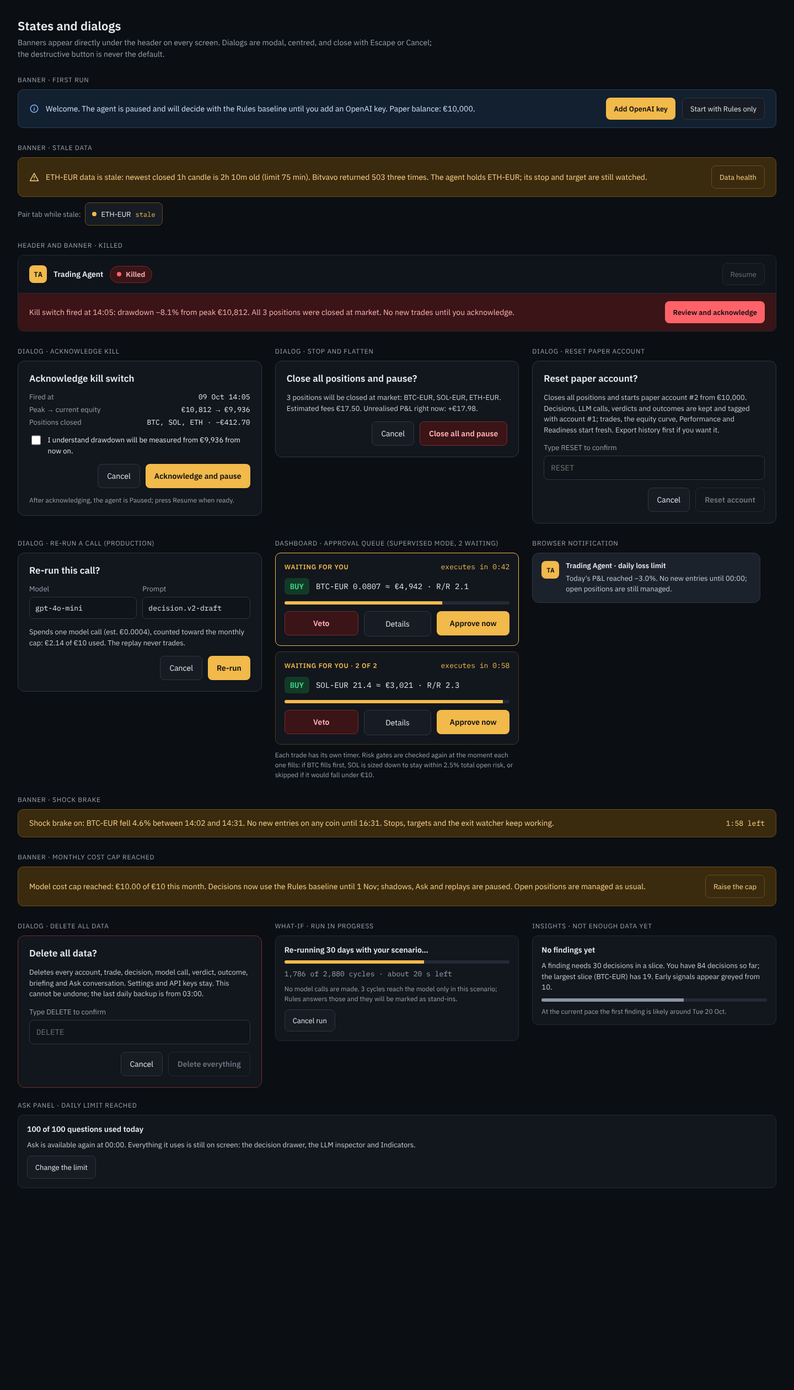
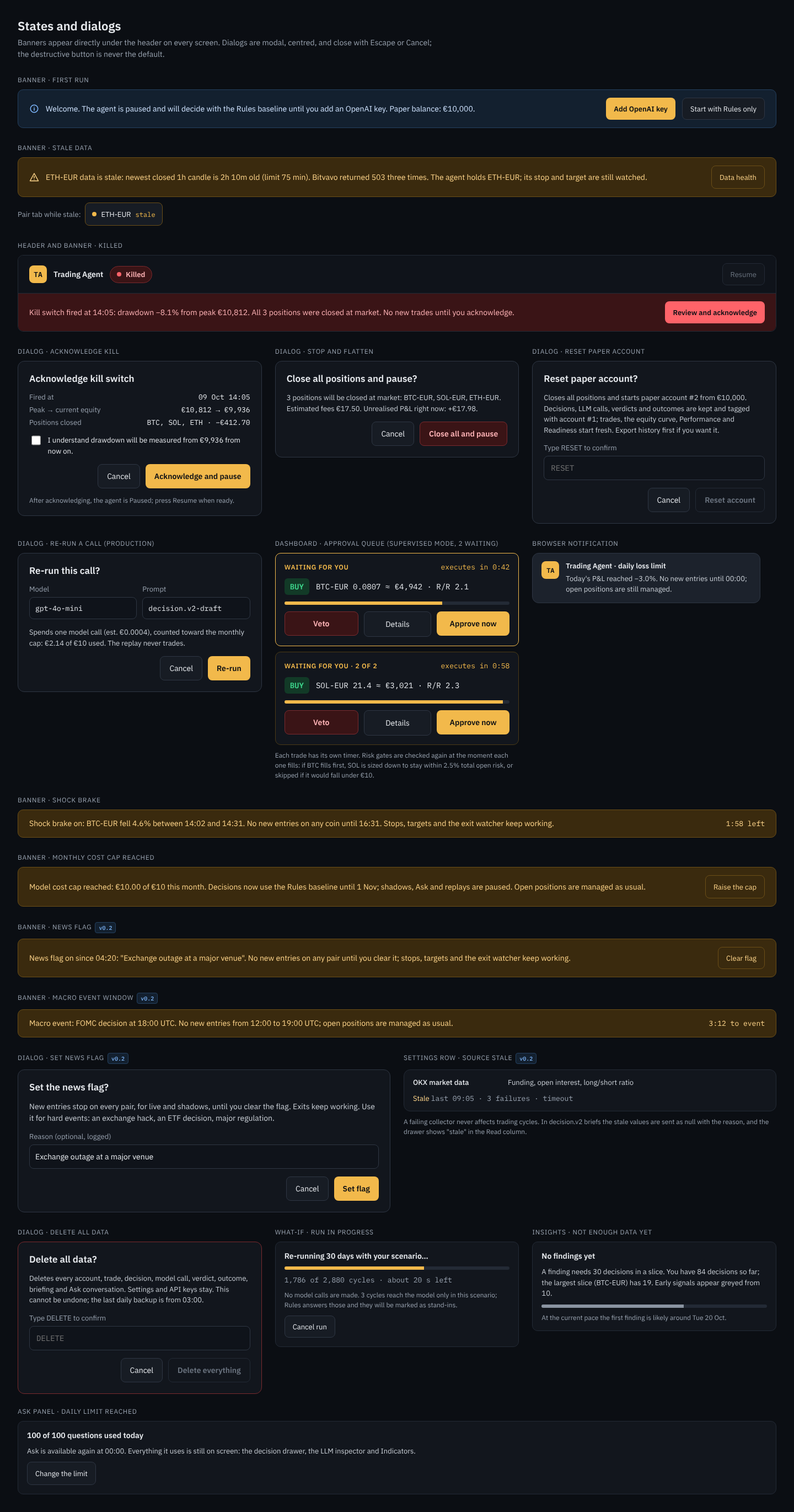
v0.2 spec

diff --git a/design/screens/Settings.dc.html b/design/screens/Settings.dc.html
@@ -125,6 +125,11 @@ button,input,select{font-family:inherit}
         <label style="display: flex; flex-direction: column; gap: 6px"><span style="font-size: 13px; color: #98A2AF">Throttle after losses in a row / drawdown (%)</span><span style="display: flex; gap: 8px"><input type="number" value="3" aria-label="Losses in a row" style="height: 44px; padding: 0 10px; box-sizing: border-box; border-radius: 8px; border: 1px solid #2E3643; background: #0F131A; color: #E7EAEE; font-family: 'IBM Plex Mono', monospace; font-size: 14px; width: 50%"><input type="number" value="4" aria-label="Drawdown percent" style="height: 44px; padding: 0 10px; box-sizing: border-box; border-radius: 8px; border: 1px solid #2E3643; background: #0F131A; color: #E7EAEE; font-family: 'IBM Plex Mono', monospace; font-size: 14px; width: 50%"></span></label>
       </div>
       <label style="display: flex; align-items: flex-start; gap: 10px; min-height: 44px; font-size: 14px; line-height: 1.45"><input type="checkbox" style="width: 20px; height: 20px; margin-top: 1px; accent-color: #F2B94B"><span>Trailing stop from +2R (2 × ATR below the highest close)<br><span style="font-size: 12px; color: #98A2AF">Off by default. Test it in What-if or as a shadow strategy first.</span></span></label>
+      <div style="display: flex; flex-direction: column; gap: 12px; padding-top: 14px; border-top: 1px solid #232A35">
+        <h3 style="margin: 0; font-size: 13px; font-weight: 600; color: #98A2AF; text-transform: uppercase; letter-spacing: 0.06em">Event flags<span style="display: inline-flex; align-items: center; height: 18px; padding: 0 6px; margin-left: 6px; border-radius: 4px; background: #13202F; border: 1px solid #24405F; color: #7FB8FF; font-family: 'IBM Plex Mono', monospace; font-size: 10px; font-weight: 500; letter-spacing: 0; text-transform: none; vertical-align: middle">v0.2</span></h3>
+        <label style="display: flex; align-items: flex-start; gap: 10px; min-height: 44px; font-size: 14px; line-height: 1.45"><input type="checkbox" style="width: 20px; height: 20px; margin-top: 1px; accent-color: #F2B94B"><span>News flag: block new entries on all pairs until I clear it<br><span style="font-size: 12px; color: #98A2AF">For an exchange hack, an ETF decision or major regulation. Exits keep working. Also on the Dashboard.</span></span></label>
+        <label style="display: flex; align-items: flex-start; gap: 10px; min-height: 44px; font-size: 14px; line-height: 1.45"><input type="checkbox" style="width: 20px; height: 20px; margin-top: 1px; accent-color: #F2B94B"><span>Macro event gate: no new entries from 6h before to 1h after FOMC, US CPI and US jobs reports<br><span style="font-size: 12px; color: #98A2AF">Off by default. 18 events in config/macro_events.yaml · next: FOMC, 28 Oct 18:00 UTC. <a href="WhatIf.dc.html">Test in What-if first</a></span></span></label>
+      </div>
     </section>
 
     <section aria-label="Decision model" style="flex: 1 1 480px; min-width: 0; background: #12161D; border: 1px solid #232A35; border-radius: 10px; padding: 20px; box-sizing: border-box; display: flex; flex-direction: column; gap: 16px">
@@ -257,23 +262,18 @@ button,input,select{font-family:inherit}
               <td style="padding: 12px 0 12px 8px; text-align: right"><input type="checkbox" checked aria-label="Bitvavo market data enabled" style="width: 20px; height: 20px; accent-color: #F2B94B"></td>
             </tr>
             <tr style="border-top: 1px solid #232A35">
-              <td style="padding: 12px 8px 12px 0; font-weight: 500">
-                <div style="display: flex; flex-direction: column; gap: 6px">
-                  <span>Futures data</span>
-                  <select aria-label="Futures data provider" style="height: 32px; padding: 0 6px; border-radius: 6px; border: 1px solid #2E3643; background: #0F131A; color: #E7EAEE; font-size: 12px; width: 120px"><option>Binance</option><option>Bybit</option><option>OKX</option></select>
-                </div>
-              </td>
-              <td style="padding: 12px 8px; color: #C9CFD6">Funding, open interest, long/short ratio</td>
+              <td style="padding: 12px 8px 12px 0; font-weight: 500">OKX market data<span style="display: inline-flex; align-items: center; height: 18px; padding: 0 6px; margin-left: 6px; border-radius: 4px; background: #13202F; border: 1px solid #24405F; color: #7FB8FF; font-family: 'IBM Plex Mono', monospace; font-size: 10px; font-weight: 500; letter-spacing: 0; text-transform: none; vertical-align: middle">v0.2</span></td>
+              <td style="padding: 12px 8px; color: #C9CFD6">Funding, open interest, long/short ratio · BTC and ETH, hourly</td>
               <td style="padding: 12px 8px"><span style="padding: 2px 6px; border-radius: 4px; background: #1C222C; color: #C9CFD6; font-size: 11px">no key needed</span></td>
-              <td style="padding: 12px 8px; color: #98A2AF">Off · planned v0.2</td>
-              <td style="padding: 12px 0 12px 8px; text-align: right"><input type="checkbox" aria-label="Futures data enabled" style="width: 20px; height: 20px; accent-color: #F2B94B"></td>
+              <td style="padding: 12px 8px"><span style="color: #3DD68C">OK</span> <span style="color: #98A2AF; font-family: 'IBM Plex Mono', monospace">12:05 · 91 days stored</span></td>
+              <td style="padding: 12px 0 12px 8px; text-align: right"><input type="checkbox" checked aria-label="OKX market data enabled" style="width: 20px; height: 20px; accent-color: #F2B94B"></td>
             </tr>
             <tr style="border-top: 1px solid #232A35">
-              <td style="padding: 12px 8px 12px 0; font-weight: 500">Deribit</td>
-              <td style="padding: 12px 8px; color: #C9CFD6">Options implied volatility (DVOL) and skew</td>
+              <td style="padding: 12px 8px 12px 0; font-weight: 500">Deribit options data<span style="display: inline-flex; align-items: center; height: 18px; padding: 0 6px; margin-left: 6px; border-radius: 4px; background: #13202F; border: 1px solid #24405F; color: #7FB8FF; font-family: 'IBM Plex Mono', monospace; font-size: 10px; font-weight: 500; letter-spacing: 0; text-transform: none; vertical-align: middle">v0.2</span></td>
+              <td style="padding: 12px 8px; color: #C9CFD6">DVOL and 25-delta skew · BTC and ETH, hourly</td>
               <td style="padding: 12px 8px"><span style="padding: 2px 6px; border-radius: 4px; background: #1C222C; color: #C9CFD6; font-size: 11px">no key needed</span></td>
-              <td style="padding: 12px 8px; color: #98A2AF">Off · planned v0.2</td>
-              <td style="padding: 12px 0 12px 8px; text-align: right"><input type="checkbox" aria-label="Deribit enabled" style="width: 20px; height: 20px; accent-color: #F2B94B"></td>
+              <td style="padding: 12px 8px"><span style="color: #3DD68C">OK</span> <span style="color: #98A2AF; font-family: 'IBM Plex Mono', monospace">12:05 · skew 34 days</span></td>
+              <td style="padding: 12px 0 12px 8px; text-align: right"><input type="checkbox" checked aria-label="Deribit options data enabled" style="width: 20px; height: 20px; accent-color: #F2B94B"></td>
             </tr>
             <tr style="border-top: 1px solid #232A35">
               <td style="padding: 12px 8px 12px 0; font-weight: 500">CoinGecko</td>
@@ -285,14 +285,14 @@ button,input,select{font-family:inherit}
                   <button type="button" style="height: 32px; padding: 0 10px; border-radius: 6px; border: 1px solid #2E3643; background: #171C24; color: #E7EAEE; font-size: 12px; cursor: pointer">Save &amp; test</button>
                 </div>
               </td>
-              <td style="padding: 12px 8px; color: #98A2AF">Off · planned v0.2</td>
+              <td style="padding: 12px 8px; color: #98A2AF">Off · after v0.2</td>
               <td style="padding: 12px 0 12px 8px; text-align: right"><input type="checkbox" aria-label="CoinGecko enabled" style="width: 20px; height: 20px; accent-color: #F2B94B"></td>
             </tr>
             <tr style="border-top: 1px solid #232A35">
               <td style="padding: 12px 8px 12px 0; font-weight: 500">alternative.me</td>
               <td style="padding: 12px 8px; color: #C9CFD6">Fear &amp; Greed Index</td>
               <td style="padding: 12px 8px"><span style="padding: 2px 6px; border-radius: 4px; background: #1C222C; color: #C9CFD6; font-size: 11px">no key needed</span></td>
-              <td style="padding: 12px 8px; color: #98A2AF">Off · planned v0.2</td>
+              <td style="padding: 12px 8px; color: #98A2AF">Off · after v0.2</td>
               <td style="padding: 12px 0 12px 8px; text-align: right"><input type="checkbox" aria-label="Fear and Greed enabled" style="width: 20px; height: 20px; accent-color: #F2B94B"></td>
             </tr>
             <tr style="border-top: 1px solid #232A35">

diff --git a/design/screens/Decision.dc.html b/design/screens/Decision.dc.html
@@ -55,6 +55,8 @@ button{font-family:inherit}
         <li style="display: flex; justify-content: space-between; gap: 12px; padding: 10px 12px; background: #0F131A; border-top: 1px solid #232A35"><span>Shock brake</span><span style="font-family: 'IBM Plex Mono', monospace; color: #3DD68C">off · pass</span></li>
         <li style="display: flex; justify-content: space-between; gap: 12px; padding: 10px 12px; background: #0F131A; border-top: 1px solid #232A35"><span>Risk throttle</span><span style="font-family: 'IBM Plex Mono', monospace; color: #3DD68C">off · 1.0% used</span></li>
         <li style="display: flex; justify-content: space-between; gap: 12px; padding: 10px 12px; background: #0F131A; border-top: 1px solid #232A35"><span>Regime rule</span><span style="font-family: 'IBM Plex Mono', monospace; color: #3DD68C">up · pass</span></li>
+        <li style="display: flex; justify-content: space-between; gap: 12px; padding: 10px 12px; background: #0F131A; border-top: 1px solid #232A35"><span>News flag<span style="display: inline-flex; align-items: center; height: 18px; padding: 0 6px; margin-left: 6px; border-radius: 4px; background: #13202F; border: 1px solid #24405F; color: #7FB8FF; font-family: 'IBM Plex Mono', monospace; font-size: 10px; font-weight: 500; letter-spacing: 0; text-transform: none; vertical-align: middle">v0.2</span></span><span style="font-family: 'IBM Plex Mono', monospace; color: #3DD68C">off · pass</span></li>
+        <li style="display: flex; justify-content: space-between; gap: 12px; padding: 10px 12px; background: #0F131A; border-top: 1px solid #232A35"><span>Macro event<span style="display: inline-flex; align-items: center; height: 18px; padding: 0 6px; margin-left: 6px; border-radius: 4px; background: #13202F; border: 1px solid #24405F; color: #7FB8FF; font-family: 'IBM Plex Mono', monospace; font-size: 10px; font-weight: 500; letter-spacing: 0; text-transform: none; vertical-align: middle">v0.2</span></span><span style="font-family: 'IBM Plex Mono', monospace; color: #98A2AF">gate off · next FOMC 28 Oct</span></li>
         <li style="display: flex; justify-content: space-between; gap: 12px; padding: 10px 12px; background: #0F131A; border-top: 1px solid #232A35"><span>Data freshness</span><span style="font-family: 'IBM Plex Mono', monospace; color: #3DD68C">1h candle 9 min old · pass</span></li>
       </ul>
     </section>
@@ -84,6 +86,32 @@ button{font-family:inherit}
         <span style="padding: 4px 8px; border-radius: 6px; background: #123A27; color: #3DD68C; font-family: 'IBM Plex Mono', monospace; font-size: 12px">Volume 1.38× avg</span>
         <span style="padding: 4px 8px; border-radius: 6px; background: #1C222C; color: #C9CFD6; font-family: 'IBM Plex Mono', monospace; font-size: 12px">R1 +4.4% · S1 −2.0%</span>
       </div>
+    </section>
+
+
+    <section aria-label="Market positioning" style="display: flex; flex-direction: column; gap: 8px">
+      <div style="display: flex; align-items: baseline; justify-content: space-between; gap: 8px">
+        <h2 style="margin: 0; font-size: 12px; font-weight: 600; color: #98A2AF; text-transform: uppercase; letter-spacing: 0.06em">Market positioning · BTC<span style="display: inline-flex; align-items: center; height: 18px; padding: 0 6px; margin-left: 6px; border-radius: 4px; background: #13202F; border: 1px solid #24405F; color: #7FB8FF; font-family: 'IBM Plex Mono', monospace; font-size: 10px; font-weight: 500; letter-spacing: 0; text-transform: none; vertical-align: middle">v0.2</span></h2>
+        <span style="font-size: 12px; color: #98A2AF; font-family: 'IBM Plex Mono', monospace">OKX · Deribit · 12:05</span>
+      </div>
+      <table style="width: 100%; border-collapse: collapse; font-size: 13px; font-family: 'IBM Plex Mono', monospace">
+        <thead>
+          <tr style="color: #98A2AF; font-family: 'IBM Plex Sans', sans-serif; text-align: left">
+            <th style="padding: 6px 0; font-weight: 500">Data point</th>
+            <th style="padding: 6px; font-weight: 500; text-align: right">Value</th>
+            <th style="padding: 6px; font-weight: 500; text-align: right" title="Percentile among the last 90 days">90d</th>
+            <th style="padding: 6px 0 6px 6px; font-weight: 500; text-align: right">Read</th>
+          </tr>
+        </thead>
+        <tbody>
+          <tr style="border-top: 1px solid #232A35"><td style="padding: 8px 0; font-family: 'IBM Plex Sans', sans-serif" title="Cost of holding leveraged longs on perpetual futures">Funding rate</td><td style="padding: 8px 6px; text-align: right">+0.012% / 8h</td><td style="padding: 8px 6px; text-align: right; color: #C9CFD6">p62</td><td style="padding: 8px 0 8px 6px; text-align: right"><span style="padding: 2px 6px; border-radius: 4px; background: #1C222C; color: #C9CFD6; font-size: 11px">normal</span></td></tr>
+          <tr style="border-top: 1px solid #232A35"><td style="padding: 8px 0; font-family: 'IBM Plex Sans', sans-serif" title="Leverage in the market and its 24h change">Open interest</td><td style="padding: 8px 6px; text-align: right">$18.4B · +3.1% 24h</td><td style="padding: 8px 6px; text-align: right; color: #C9CFD6">p71</td><td style="padding: 8px 0 8px 6px; text-align: right"><span style="padding: 2px 6px; border-radius: 4px; background: #1C222C; color: #C9CFD6; font-size: 11px">normal</span></td></tr>
+          <tr style="border-top: 1px solid #232A35"><td style="padding: 8px 0; font-family: 'IBM Plex Sans', sans-serif" title="Accounts net long divided by accounts net short">Long / short accounts</td><td style="padding: 8px 6px; text-align: right">1.84</td><td style="padding: 8px 6px; text-align: right; color: #C9CFD6">p91</td><td style="padding: 8px 0 8px 6px; text-align: right"><span style="padding: 2px 6px; border-radius: 4px; background: #3A2A0E; color: #FFD58A; font-size: 11px">extreme high</span></td></tr>
+          <tr style="border-top: 1px solid #232A35"><td style="padding: 8px 0; font-family: 'IBM Plex Sans', sans-serif" title="Implied volatility index from BTC options">DVOL</td><td style="padding: 8px 6px; text-align: right">47.2</td><td style="padding: 8px 6px; text-align: right; color: #C9CFD6">p38</td><td style="padding: 8px 0 8px 6px; text-align: right"><span style="padding: 2px 6px; border-radius: 4px; background: #1C222C; color: #C9CFD6; font-size: 11px">normal</span></td></tr>
+          <tr style="border-top: 1px solid #232A35"><td style="padding: 8px 0; font-family: 'IBM Plex Sans', sans-serif" title="Put minus call implied vol: what traders pay for protection">25-delta skew</td><td style="padding: 8px 6px; text-align: right">+1.6 vol pts</td><td style="padding: 8px 6px; text-align: right; color: #C9CFD6">p22</td><td style="padding: 8px 0 8px 6px; text-align: right"><span style="padding: 2px 6px; border-radius: 4px; background: #1C222C; color: #C9CFD6; font-size: 11px">normal</span></td></tr>
+        </tbody>
+      </table>
+      <p style="margin: 0; font-size: 12px; color: #98A2AF; line-height: 1.5">Extremes (90th percentile or above, 10th or below) are contrarian warnings. Sent to the model only with prompt decision.v2; this live decision used v1.</p>
     </section>
 
     <section aria-label="Reasoning" style="display: flex; flex-direction: column; gap: 8px">
@@ -130,7 +158,7 @@ button{font-family:inherit}
   </footer>
 </div>
 </x-dc>
-<script type="text/x-dc" data-dc-script data-props='{"$preview":{"width":560,"height":1180}}'>
+<script type="text/x-dc" data-dc-script data-props='{"$preview":{"width":560,"height":1520}}'>
 class Component extends DCLogic {
   renderVals() { return {}; }
 }

diff --git a/design/screens/States.dc.html b/design/screens/States.dc.html
@@ -192,6 +192,46 @@ button,input{font-family:inherit}
     </div>
   </div>
 
+  <div style="display: flex; flex-direction: column; gap: 10px">
+    <div style="font-size: 12px; color: #98A2AF; text-transform: uppercase; letter-spacing: 0.06em">Banner · news flag<span style="display: inline-flex; align-items: center; height: 18px; padding: 0 6px; margin-left: 6px; border-radius: 4px; background: #13202F; border: 1px solid #24405F; color: #7FB8FF; font-family: 'IBM Plex Mono', monospace; font-size: 10px; font-weight: 500; letter-spacing: 0; text-transform: none; vertical-align: middle">v0.2</span></div>
+    <div style="display: flex; flex-wrap: wrap; align-items: center; gap: 12px; padding: 14px 20px; background: #3A2A0E; border: 1px solid #6B4E17; border-radius: 10px; color: #FFD58A">
+      <span style="flex: 1 1 400px; line-height: 1.5">News flag on since 04:20: "Exchange outage at a major venue". No new entries on any pair until you clear it; stops, targets and the exit watcher keep working.</span>
+      <button type="button" style="height: 40px; padding: 0 14px; border-radius: 8px; border: 1px solid #6B4E17; background: transparent; color: #FFD58A; font-size: 13px; cursor: pointer">Clear flag</button>
+    </div>
+  </div>
+
+  <div style="display: flex; flex-direction: column; gap: 10px">
+    <div style="font-size: 12px; color: #98A2AF; text-transform: uppercase; letter-spacing: 0.06em">Banner · macro event window<span style="display: inline-flex; align-items: center; height: 18px; padding: 0 6px; margin-left: 6px; border-radius: 4px; background: #13202F; border: 1px solid #24405F; color: #7FB8FF; font-family: 'IBM Plex Mono', monospace; font-size: 10px; font-weight: 500; letter-spacing: 0; text-transform: none; vertical-align: middle">v0.2</span></div>
+    <div style="display: flex; flex-wrap: wrap; align-items: center; gap: 12px; padding: 14px 20px; background: #3A2A0E; border: 1px solid #6B4E17; border-radius: 10px; color: #FFD58A">
+      <span style="flex: 1 1 400px; line-height: 1.5">Macro event: FOMC decision at 18:00 UTC. No new entries from 12:00 to 19:00 UTC; open positions are managed as usual.</span>
+      <span style="font-family: 'IBM Plex Mono', monospace; font-size: 13px">3:12 to event</span>
+    </div>
+  </div>
+
+  <div style="display: flex; flex-wrap: wrap; gap: 24px; align-items: flex-start">
+    <div style="flex: 1 1 400px; min-width: 0; display: flex; flex-direction: column; gap: 10px">
+      <div style="font-size: 12px; color: #98A2AF; text-transform: uppercase; letter-spacing: 0.06em">Dialog · set news flag<span style="display: inline-flex; align-items: center; height: 18px; padding: 0 6px; margin-left: 6px; border-radius: 4px; background: #13202F; border: 1px solid #24405F; color: #7FB8FF; font-family: 'IBM Plex Mono', monospace; font-size: 10px; font-weight: 500; letter-spacing: 0; text-transform: none; vertical-align: middle">v0.2</span></div>
+      <div role="dialog" aria-label="Set news flag" style="background: #12161D; border: 1px solid #2E3643; border-radius: 12px; padding: 20px; display: flex; flex-direction: column; gap: 14px">
+        <h2 style="margin: 0; font-size: 17px; font-weight: 600">Set the news flag?</h2>
+        <p style="margin: 0; font-size: 14px; color: #C9CFD6; line-height: 1.5">New entries stop on every pair, for live and shadows, until you clear the flag. Exits keep working. Use it for hard events: an exchange hack, an ETF decision, major regulation.</p>
+        <label style="display: flex; flex-direction: column; gap: 6px"><span style="font-size: 13px; color: #98A2AF">Reason (optional, logged)</span><input type="text" value="Exchange outage at a major venue" style="height: 44px; padding: 0 10px; box-sizing: border-box; border-radius: 8px; border: 1px solid #2E3643; background: #0F131A; color: #E7EAEE; font-size: 14px"></label>
+        <div style="display: flex; justify-content: flex-end; gap: 10px">
+          <button type="button" style="height: 44px; padding: 0 16px; border-radius: 8px; border: 1px solid #2E3643; background: #171C24; color: #E7EAEE; font-size: 14px; cursor: pointer">Cancel</button>
+          <button type="button" style="height: 44px; padding: 0 16px; border-radius: 8px; border: 0; background: #F2B94B; color: #0B0E13; font-size: 14px; font-weight: 600; cursor: pointer">Set flag</button>
+        </div>
+      </div>
+    </div>
+    <div style="flex: 1 1 400px; min-width: 0; display: flex; flex-direction: column; gap: 10px">
+      <div style="font-size: 12px; color: #98A2AF; text-transform: uppercase; letter-spacing: 0.06em">Settings row · source stale<span style="display: inline-flex; align-items: center; height: 18px; padding: 0 6px; margin-left: 6px; border-radius: 4px; background: #13202F; border: 1px solid #24405F; color: #7FB8FF; font-family: 'IBM Plex Mono', monospace; font-size: 10px; font-weight: 500; letter-spacing: 0; text-transform: none; vertical-align: middle">v0.2</span></div>
+      <div style="background: #12161D; border: 1px solid #232A35; border-radius: 12px; padding: 14px 16px; display: flex; flex-wrap: wrap; align-items: center; gap: 12px; font-size: 13px">
+        <span style="font-weight: 500; flex: 0 0 160px">OKX market data</span>
+        <span style="color: #C9CFD6; flex: 1 1 200px">Funding, open interest, long/short ratio</span>
+        <span><span style="color: #FFD58A">Stale</span> <span style="color: #98A2AF; font-family: 'IBM Plex Mono', monospace">last 09:05 · 3 failures · timeout</span></span>
+      </div>
+      <p style="margin: 0; font-size: 12px; color: #98A2AF; line-height: 1.5">A failing collector never affects trading cycles. In decision.v2 briefs the stale values are sent as null with the reason, and the drawer shows "stale" in the Read column.</p>
+    </div>
+  </div>
+
   <div style="display: flex; flex-wrap: wrap; gap: 24px; align-items: flex-start">
     <div style="flex: 1 1 400px; min-width: 0; display: flex; flex-direction: column; gap: 10px">
       <div style="font-size: 12px; color: #98A2AF; text-transform: uppercase; letter-spacing: 0.06em">Dialog · delete all data</div>

diff --git a/design/screens/Main.dc.html b/design/screens/Main.dc.html
@@ -80,6 +80,10 @@ button{font-family:inherit}
         </sc-if>
         <span>{{pauseLabel}}</span>
       </button>
+      <button type="button" onClick="{{toggleNews}}" aria-pressed="{{newsPressed}}" title="Block new entries on all pairs until cleared" style="{{newsStyle}}">
+        <svg width="16" height="16" viewBox="0 0 24 24" fill="none" stroke="currentColor" stroke-width="2" stroke-linecap="round" stroke-linejoin="round" aria-hidden="true"><path d="M5 21V4"></path><path d="M5 4h11l-2 4 2 4H5"></path></svg>
+        <span>{{newsLabel}}</span>
+      </button>
       <button type="button" style="height: 44px; padding: 0 16px; display: flex; align-items: center; gap: 8px; border-radius: 8px; border: 1px solid #7A2A2E; background: #3A1416; color: #FFB3B6; font-size: 14px; font-weight: 600; cursor: pointer">
         <svg width="16" height="16" viewBox="0 0 24 24" fill="none" stroke="currentColor" stroke-width="2" stroke-linecap="round" stroke-linejoin="round" aria-hidden="true"><circle cx="12" cy="12" r="9"></circle><line x1="12" y1="7" x2="12" y2="13"></line><line x1="12" y1="17" x2="12" y2="17"></line></svg>
         <span>Stop &amp; flatten</span>
@@ -94,11 +98,19 @@ button{font-family:inherit}
     </div>
   </sc-if>
 
+  <sc-if value="{{newsOn}}" hint-placeholder-val="{{ false }}">
+    <div role="status" style="display: flex; flex-wrap: wrap; align-items: center; gap: 12px; padding: 10px 24px; background: #3A2A0E; border-bottom: 1px solid #6B4E17; color: #FFD58A; font-size: 13px">
+      <svg width="16" height="16" viewBox="0 0 24 24" fill="none" stroke="currentColor" stroke-width="2" stroke-linecap="round" stroke-linejoin="round" aria-hidden="true"><path d="M5 21V4"></path><path d="M5 4h11l-2 4 2 4H5"></path></svg>
+      <span style="flex: 1 1 400px">News flag on since 04:20. No new entries on any pair until you clear it; stops, targets and the exit watcher keep working.</span>
+      <button type="button" onClick="{{toggleNews}}" style="height: 36px; padding: 0 12px; border-radius: 8px; border: 1px solid #6B4E17; background: transparent; color: #FFD58A; font-size: 13px; cursor: pointer">Clear flag</button>
+    </div>
+  </sc-if>
+
   <main style="max-width: 1440px; margin: 0 auto; padding: 24px; box-sizing: border-box; display: flex; flex-direction: column; gap: 20px">
 
     <div role="status" style="display: flex; flex-wrap: wrap; align-items: center; gap: 10px 12px; padding: 12px 16px; background: #12161D; border: 1px solid #232A35; border-radius: 10px; font-size: 13px">
       <span style="padding: 3px 8px; border-radius: 6px; background: #1C222C; color: #C9CFD6; font-size: 12px; font-weight: 600">This cycle</span>
-      <span style="flex: 1 1 420px; color: #C9CFD6; line-height: 1.5">6 of 9 pairs failed the <span title="The Rules check that decides whether the model is asked at all. It saves model calls when nothing looks promising." style="text-decoration: underline dotted; text-underline-offset: 3px; cursor: help">pre-filter</span> (4h trend down on 4, too weak on 2). 3 reached the model: 1 BUY (BTC), 2 held. Last trade 1 min ago. DOGE paused for 18h.</span>
+      <span style="flex: 1 1 420px; color: #C9CFD6; line-height: 1.5">6 of 9 pairs failed the <span title="The Rules check that decides whether the model is asked at all. It saves model calls when nothing looks promising." style="text-decoration: underline dotted; text-underline-offset: 3px; cursor: help">pre-filter</span> (4h trend down on 4, too weak on 2). 3 reached the model: 1 BUY (BTC), 2 held. Last trade 1 min ago. {{quietTail}}</span>
       <a href="Insights.dc.html" style="font-size: 13px">Why?</a>
     </div>
 
@@ -332,7 +344,7 @@ button{font-family:inherit}
 class Component extends DCLogic {
   constructor(props) {
     super(props);
-    this.state = { pair: 'BTC-EUR', paused: false, mode: 'paper' };
+    this.state = { pair: 'BTC-EUR', paused: false, mode: 'paper', news: false };
   }
   renderVals() {
     var self = this;
@@ -480,7 +492,13 @@ class Component extends DCLogic {
       liveStyle: segBase + 'background:transparent;color:#6B7480;cursor:not-allowed',
       setPaper: function () { self.setState({ mode: 'paper' }); },
       setLive: function () { self.setState({ mode: 'live' }); },
-      togglePause: function () { self.setState({ paused: !self.state.paused }); }
+      togglePause: function () { self.setState({ paused: !self.state.paused }); },
+      newsOn: !!this.state.news,
+      newsPressed: String(!!this.state.news),
+      newsLabel: this.state.news ? 'News flag on' : 'News flag',
+      newsStyle: 'height:44px;padding:0 16px;display:flex;align-items:center;gap:8px;border-radius:8px;font-size:14px;font-weight:500;cursor:pointer;' + (this.state.news ? 'border:1px solid #6B4E17;background:#3A2A0E;color:#FFD58A' : 'border:1px solid #2E3643;background:#171C24;color:#E7EAEE'),
+      quietTail: this.state.news ? 'News flag on since 04:20. DOGE paused for 18h.' : 'DOGE paused for 18h.',
+      toggleNews: function () { self.setState({ news: !self.state.news }); }
     };
   }
 }

diff --git a/design/screens/Insights.dc.html b/design/screens/Insights.dc.html
@@ -119,7 +119,7 @@ button,select{font-family:inherit}
               </tbody>
             </table>
           </div>
-          <p style="margin: 0; font-size: 12px; color: #98A2AF">Rows with fewer than 30 decisions are greyed: too few to trust. Avoided: the hypothetical stop was hit first after a HOLD or SKIP. Missed: the target was hit first. Sample data.</p>
+          <p style="margin: 0; font-size: 12px; color: #98A2AF">Rows with fewer than 30 decisions are greyed: too few to trust. Avoided: the hypothetical stop was hit first after a HOLD or SKIP. Missed: the target was hit first. Positioning slices start when the v0.2 collector has data. Sample data.</p>
         </section>
 
         <section aria-label="Calibration" style="flex: 1 1 380px; min-width: 0; background: #12161D; border: 1px solid #232A35; border-radius: 10px; padding: 16px; display: flex; flex-direction: column; gap: 12px">
@@ -193,9 +193,10 @@ class Component extends DCLogic {
       weekday: ['Weekday', [['Mon–Fri', 1292, 71, 59, 0.52, 19, 8], ['Saturday', 258, 18, 39, -0.27, 22, 11], ['Sunday', 257, 16, 38, -0.36, 21, 12]]],
       regime: ['Regime', [['Up', 812, 71, 61, 0.64, 14, 12], ['Sideways', 655, 31, 42, 0.05, 22, 8], ['Down', 340, 3, 33, -0.40, 28, 4]]],
       vol: ['Volatility percentile', [['Low (p0–33)', 618, 29, 48, 0.12, 17, 10], ['Mid (p33–66)', 597, 41, 59, 0.58, 20, 9], ['High (p66–100)', 592, 35, 51, 0.30, 22, 8]]],
+      pos: ['Positioning at entry (BTC)', [['Funding extreme high', 64, 9, 33, -0.42, 25, 6], ['Funding normal', 402, 21, 57, 0.51, 19, 9], ['Funding extreme low', 41, 4, 75, 0.88, 12, 15], ['Skew extreme high (fear)', 52, 5, 60, 0.47, 18, 14], ['Skew normal', 418, 26, 54, 0.40, 20, 8], ['Skew extreme low (calm)', 37, 3, 33, -0.30, 24, 5]]],
       conf: ['Confidence', [['0.5–0.6', 124, 31, 50, 0.18, 18, 9], ['0.6–0.7', 118, 32, 59, 0.51, 20, 8], ['0.7–0.8', 77, 29, 51, 0.33, 0, 0], ['0.8+', 26, 13, 54, 0.40, 0, 0]]]
     };
-    var LABELS = [['pair', 'Pair'], ['hour', 'Hour'], ['weekday', 'Weekday'], ['regime', 'Regime'], ['vol', 'Volatility'], ['conf', 'Confidence']];
+    var LABELS = [['pair', 'Pair'], ['hour', 'Hour'], ['weekday', 'Weekday'], ['regime', 'Regime'], ['vol', 'Volatility'], ['conf', 'Confidence'], ['pos', 'Positioning · v0.2']];
     var cur = DATA[this.state.dim];
     var rows = cur[1].map(function (r) {
       var few = r[1] < 30, R = r[4], w = Math.min(Math.abs(R), 1) * 50;

diff --git a/design/screens/WhatIf.dc.html b/design/screens/WhatIf.dc.html
@@ -62,6 +62,7 @@ button,select,input{font-family:inherit}
           <select style="height: 44px; padding: 0 10px; border-radius: 8px; border: 1px solid #2E3643; background: #0F131A; color: #E7EAEE; font-size: 14px"><option>Last 30 days (09 Sep – 09 Oct)</option><option>Last 7 days</option><option>Since start</option></select>
         </label>
         <label style="display: flex; align-items: flex-start; gap: 10px; min-height: 44px; font-size: 14px; line-height: 1.45"><input type="checkbox" checked="{{sc.weekend}}" onChange="{{toggleWeekend}}" style="width: 20px; height: 20px; margin-top: 1px; accent-color: #F2B94B"><span>No new entries on Saturday and Sunday<br><span style="font-size: 12px; color: #98A2AF">From Insights: weekend BUYs average −0.31R</span></span></label>
+        <label style="display: flex; align-items: flex-start; gap: 10px; min-height: 44px; font-size: 14px; line-height: 1.45"><input type="checkbox" style="width: 20px; height: 20px; margin-top: 1px; accent-color: #F2B94B"><span>Macro event gate<span style="display: inline-flex; align-items: center; height: 18px; padding: 0 6px; margin-left: 6px; border-radius: 4px; background: #13202F; border: 1px solid #24405F; color: #7FB8FF; font-family: 'IBM Plex Mono', monospace; font-size: 10px; font-weight: 500; letter-spacing: 0; text-transform: none; vertical-align: middle">v0.2</span><br><span style="font-size: 12px; color: #98A2AF">No new entries from 6h before to 1h after FOMC, CPI and jobs reports · 3 events in this period</span></span></label>
         <div style="display: flex; flex-direction: column; gap: 6px">
           <span style="font-size: 13px; color: #98A2AF">Min. reward / risk <span style="color: #6B7480">· now 2.0</span></span>
           <div role="group" aria-label="Min reward risk" style="display: flex; padding: 3px; background: #171C24; border: 1px solid #232A35; border-radius: 8px">

diff --git a/docs/SPEC.md b/docs/SPEC.md
@@ -848,6 +848,60 @@ Devin should ship this in eight PRs, each with its tests passing, so the agent i
 7. **Understanding and safety:** glossary and plain-language mode, "Why so quiet?" status, risk budget meter, per-coin pause, Readiness screen, daily briefing with the number check.
 8. **Evidence:** Ask panel with read-only tools, Insights screen with calibration chart, What-if simulator, shadow strategies, weekly review and Reviews screen.
 
+## v0.2: positioning data
+
+v0.2 adds derivatives positioning data for BTC and ETH: what traders do with money in futures and options. It is built in three steps. Live decisions do not change until step 3 promotes a result, so the v0.1 measurement run stays clean.
+
+### Step 1: collect (no effect on decisions)
+
+An hourly collector stores six metrics for BTC and ETH from public, read-only endpoints. No API keys, no account or trading endpoints.
+
+| Metric | What it shows | Source | Cadence | Backfill |
+| --- | --- | --- | --- | --- |
+| `funding_rate_settled` | Every settled funding rate, normalised to % per 8h | OKX v5, BTC-USDT-SWAP and ETH-USDT-SWAP | Each settlement | About 3 months |
+| `funding_rate_current` | The current funding rate, % per 8h | OKX v5 | Hourly | None |
+| `open_interest_usd` | Open interest in USD | OKX v5 | Hourly | As far as the API allows |
+| `long_short_account_ratio` | Accounts net long ÷ accounts net short | OKX v5 trading statistics | Hourly | As far as the API allows |
+| `dvol` | Deribit implied volatility index, hourly close | Deribit v2 | Hourly | Full |
+| `skew_25d` | Implied vol of the 25-delta put minus the 25-delta call, in vol points, on the expiry closest to 30 days (expiries under 7 days ignored) | Deribit v2 option chain, computed | Hourly | None; history starts at collection |
+
+- Storage: a `market_context` table with source, metric, symbol, ts (the data's own UTC timestamp), value, meta (JSON, for example the expiry used and the put, call and ATM IVs behind the skew) and fetched_at. Unique on source, metric, symbol and ts; writes are upserts. All rows are kept (about 15 an hour).
+- Schedule: an hourly job at minute 5, separate from the 15-minute trading cycle. After sleep or a restart it runs once; settled funding and DVOL fill their own gaps from history on the next run.
+- Isolation: a collector failure never delays, blocks or fails a trading cycle. Each request has a 10 s timeout and one retry on a network error, 5xx or 429; after that the failure is logged and the job moves on. Each API's rate limits are respected.
+- Backfill: `uv run python -m backend.context.backfill --days 90` fills whatever history each endpoint provides and says which metrics could not be backfilled. Running it twice adds nothing.
+- Visibility: Settings → Data sources and API keys gets rows for "OKX market data" and "Deribit options data" (key not needed), each with an on/off switch and the last successful fetch; off means no requests. `/api/health` shows each source's status and the age of its newest row. `GET /api/context?metric=&symbol=&from=&to=` returns stored rows for checking. No new screen.
+- Helper for step 2: `percentile_90d(metric, symbol, at)` returns the value's percentile among that metric's values in the 90 days before it, or null with fewer than 30 days of data.
+- Sources are confirmed reachable from the Netherlands before the build starts. Binance and Bybit no longer serve the Netherlands; OKX does. If OKX turns out to be unusable, the build stops and asks; it does not switch exchanges on its own.
+
+### Step 2: sentiment block, tested as a shadow
+
+Starts when every metric has at least 30 days of data and the v0.1 measurement run has lasted at least 4 weeks.
+
+- Brief: a new `sentiment` block with, for BTC and ETH, the current funding rate, open interest and its 24h change in %, the long/short ratio, DVOL and the 25-delta skew. Every value comes with its 90-day percentile and a read: extreme high at the 90th percentile or above, extreme low at the 10th or below, otherwise normal. Briefs for other coins carry the BTC and ETH values labelled market-wide. Freshness limit: 2 hours (9 hours for settled funding). A stale or missing value is sent as null with the reason, and never blocks a decision.
+- Prompt: a new file, `decision.v2.md`, explains the block. Positioning extremes are contrarian warnings: they can lower confidence or turn a BUY into a HOLD, and are never a reason to buy on their own. The output schema stays the same. The signal-claims check also covers the sentiment reads.
+- Test: Shadow A runs the live model with `decision.v2` against live on `decision.v1`. The sentiment block is the only difference, so the comparison measures what it adds.
+- No gates use sentiment data in v0.2.
+- GUI: the Decision drawer shows the sentiment block (value, 90-day percentile and read per data point) below the signal stack, and two new rows in its safety gates: News flag and Macro event. Insights gets a positioning slice: BUY outcomes grouped by the funding and skew reads at entry.
+
+### Step 3: decide
+
+After Shadow A has at least 30 closed trades, compare it with live over the same window, leaving out any shadow pause windows: average R after fees, max drawdown, profit factor, and missed vs avoided for HOLD and SKIP. Promote `decision.v2` when its average R is at least 0.05R higher and its max drawdown is no worse; otherwise keep `decision.v1`, keep collecting and look again after 30 more trades. Either way the result is logged in the decisions below.
+
+### Risk flags
+
+- **News flag:** a switch in Settings and on the Dashboard that blocks new entries on all pairs until cleared, for events such as an exchange hack or a major regulatory decision. Exits keep working; it appears in the quiet line and is logged. Ships with step 2 and applies to live and shadows.
+- **Macro calendar:** `config/macro_events.yaml` lists FOMC decisions, US CPI releases and US jobs reports (date, time UTC, type), kept up to date by Marc. A "Macro event" gate blocks new entries from 6 hours before to 1 hour after an event. Because the dates are known in advance, it is tested in What-if over the v0.1 period first, and switched on only if it does not lower average R.
+
+### Build order (v0.2)
+
+9. **Market context collector:** step 1.
+10. **Sentiment block:** the `sentiment` brief block, `decision.v2.md`, signal-claims check, Decision drawer and Insights additions, the news flag.
+11. **Macro calendar:** the events file, the gate (off by default) and its What-if support.
+
+### Not in v0.2
+
+Fear & Greed, BTC dominance and market cap trend (the next group, once v0.2 has a result), on-chain flows, news tone scores, social media sentiment, traditional markets, and hosting on a VPS, which gets its own section when the v0.1 measurement run ends.
+
 ## After v0.1: sentiment and external market context
 
 Once v0.1 runs and outcomes are being recorded, add these sources one at a time and keep each only if replays and outcomes show it improves decisions.
@@ -874,7 +928,7 @@ Briefs for every other coin use the BTC and ETH values as market-wide sentiment,
 | Scheduled macro events (FOMC, US CPI, US jobs report) | Flag for an event within 6h, so new entries can wait | Dates file in config | n/a |
 | Hard news events (exchange hack, ETF decision, major regulation) | Flag only, never a sentiment score; a flag blocks new entries until cleared | Manual flag in Settings first; an automated source later | Until cleared |
 
-Add one group at a time, starting with funding, open interest and options data, and keep each only if replays and outcomes show it improves decisions. Not planned: social media sentiment (expensive, noisy, easy to manipulate) and news tone scores. Later, only if outcome data shows value: traditional markets (S&P 500 or Nasdaq futures, dollar index), liquidation data, and on-chain flows.
+Funding, open interest, the long/short ratio and options data are the first group and are specified in v0.2 above. Add the other groups one at a time, and keep each only if replays and outcomes show it improves decisions. Not planned: social media sentiment (expensive, noisy, easy to manipulate) and news tone scores. Later, only if outcome data shows value: traditional markets (S&P 500 or Nasdaq futures, dollar index), liquidation data, and on-chain flows.
 
 **Later features** (after going live, or once running on the VPS)
 

diff --git a/design/DESIGN.md b/design/DESIGN.md
@@ -131,6 +131,12 @@ Follows the spec's build order. A PR builds only the screens listed for it.
 | 6 Execution modes and polish | States: approval queue, browser notification, shock brake banner; Settings → notifications; error badge; outcome section in the drawer; inspector scorecard |
 | 7 Understanding and safety | Dashboard: "This cycle" line, morning briefing, risk budget card, per-coin pause; Readiness; Settings → learning and explanations, live readiness, risk throttle and correlation fields; glossary tooltips |
 | 8 Evidence | Ask panel, Insights, What-if, Reviews, Settings → shadow strategies; States: What-if running, Insights before data, Ask limit reached |
+| 9 Market context collector | Settings → data sources: OKX market data and Deribit options data rows (status, days stored, on/off); States: source stale row |
+| 10 Sentiment block | Decision drawer: Market positioning section and News flag gate row; Dashboard: News flag button, banner and quiet-line text; Settings → risk limits: Event flags (news flag); Insights: Positioning slice; States: news flag banner and set-flag dialog |
+| 11 Macro calendar | Settings → risk limits: Event flags (macro event gate); Decision drawer: Macro event gate row; What-if: macro event gate option; States: macro event banner |
+
+Blue **v0.2** tags in the screens and screenshots mark what v0.2 adds. They are for the
+handoff only: do not render them in the app.
 
 ## Visual check in every PR
 

diff --git a/design/CHANGES.md b/design/CHANGES.md
@@ -2,6 +2,26 @@
 
 Newest first. Each entry names the screens it touches.
 
+## 2026-10-14 — v0.2: positioning data and event flags
+
+All additions carry a blue v0.2 tag in the screens (handoff only, not shown in the app).
+
+- Decision drawer: "Market positioning · BTC" section below the signal stack (funding,
+  open interest, long/short accounts, DVOL, 25-delta skew; value, 90-day percentile,
+  read with extremes in amber); safety gates gain News flag and Macro event rows.
+- Dashboard: News flag button between Pause and Stop & flatten; when on, an amber banner
+  with Clear flag, and the "This cycle" line adds "News flag on since 04:20." before
+  per-coin pauses.
+- Settings: Data sources table now has "OKX market data" and "Deribit options data" (on,
+  with days stored); CoinGecko and alternative.me read "Off · after v0.2". Risk limits
+  gain an "Event flags" block: news flag and macro event gate (off by default, with a
+  link to What-if).
+- States: news flag banner, macro event banner, "Set the news flag?" dialog with an
+  optional reason, and a stale-source row.
+- Insights: a "Positioning · v0.2" slice tab (BUY outcomes by funding and skew read at
+  entry).
+- What-if: macro event gate option in the scenario.
+
 ## 2026-10-11 — ADX wording
 
 - Indicators: ADX pane label and the reads footnote say "25 or more = trending"

diff --git a/docs/README.md b/docs/README.md
@@ -43,6 +43,9 @@ design/               the visual reference (see design/DESIGN.md)
 | 6 Execution modes and polish | GUI screens → Dashboard (pending approval); Outcome tracking; Settings, secrets and persistence (notifications, operations, restart and sleep) |
 | 7 Understanding and safety | User features → Understanding the agent, Trust and safety |
 | 8 Evidence | User features → Improving with evidence |
+| 9 Market context collector | v0.2: positioning data → Step 1; Settings, secrets and persistence (data sources) |
+| 10 Sentiment block | v0.2 → Step 2 and Risk flags (news flag); OpenAI decision layer (brief, post-checks, prompt versions); User features → Shadow strategies, Insights |
+| 11 Macro calendar | v0.2 → Risk flags (macro calendar); Risk gates; User features → What-if simulator |
 
 Every PR also checks the "Testing and acceptance criteria" items that belong to it.
 

diff --git a/docs/CHANGES.md b/docs/CHANGES.md
@@ -2,6 +2,16 @@
 
 Newest first. Each entry names the sections it touches.
 
+## 2026-10-14 — v0.2: positioning data
+
+- New section "v0.2: positioning data" before "After v0.1": step 1 collector (OKX
+  funding, open interest, long/short ratio; Deribit DVOL and 25-delta skew; BTC and
+  ETH, hourly, no effect on decisions), step 2 `sentiment` brief block and
+  `decision.v2.md` tested as Shadow A, step 3 promotion rule, news flag and macro
+  calendar, build order PRs 9–11, and what stays out of v0.2.
+- "After v0.1": the first group now points to v0.2.
+- Step 2 GUI: the sentiment block sits below the signal stack in the Decision drawer, which also gains News flag and Macro event gate rows (matches design/CHANGES.md 2026-10-14).
+
 ## 2026-10-11 — Shadows and What-if
 
 - User features → Shadow strategies: briefs come from the same cycle snapshot as live
